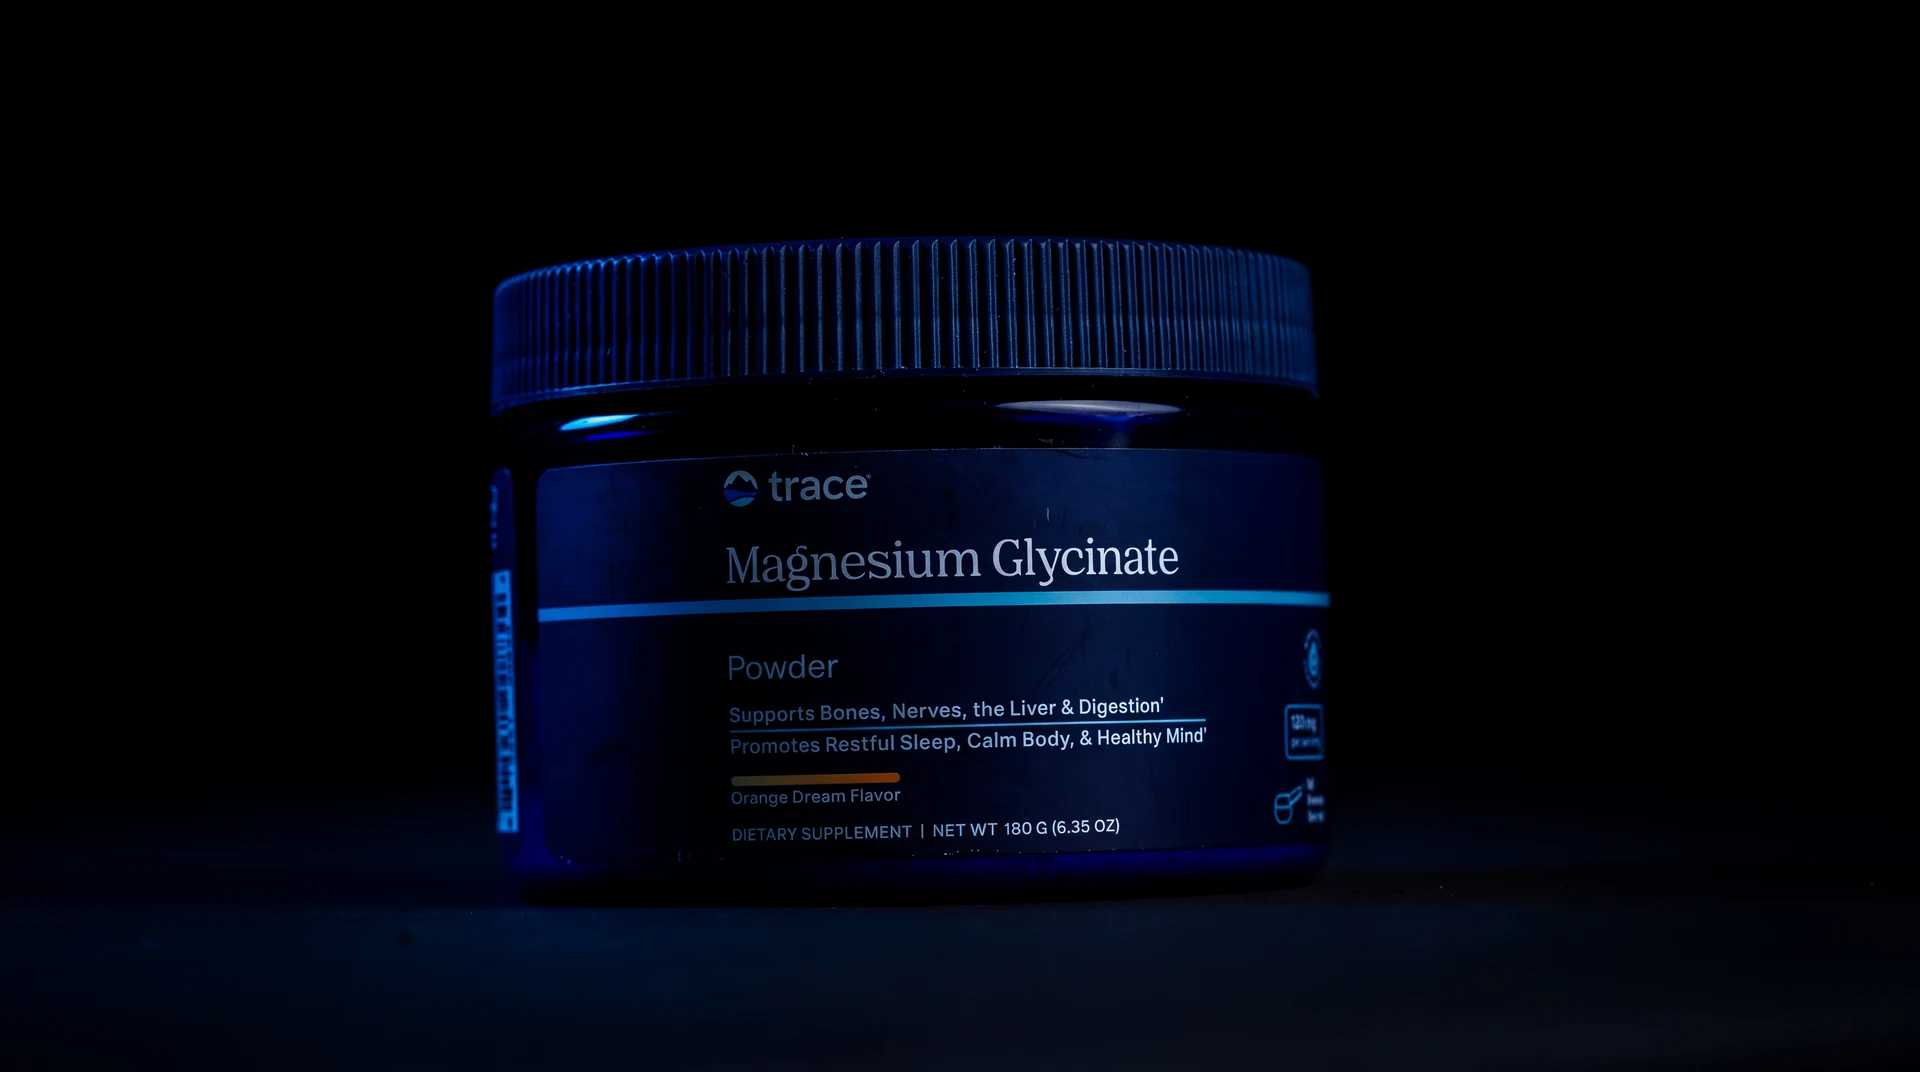
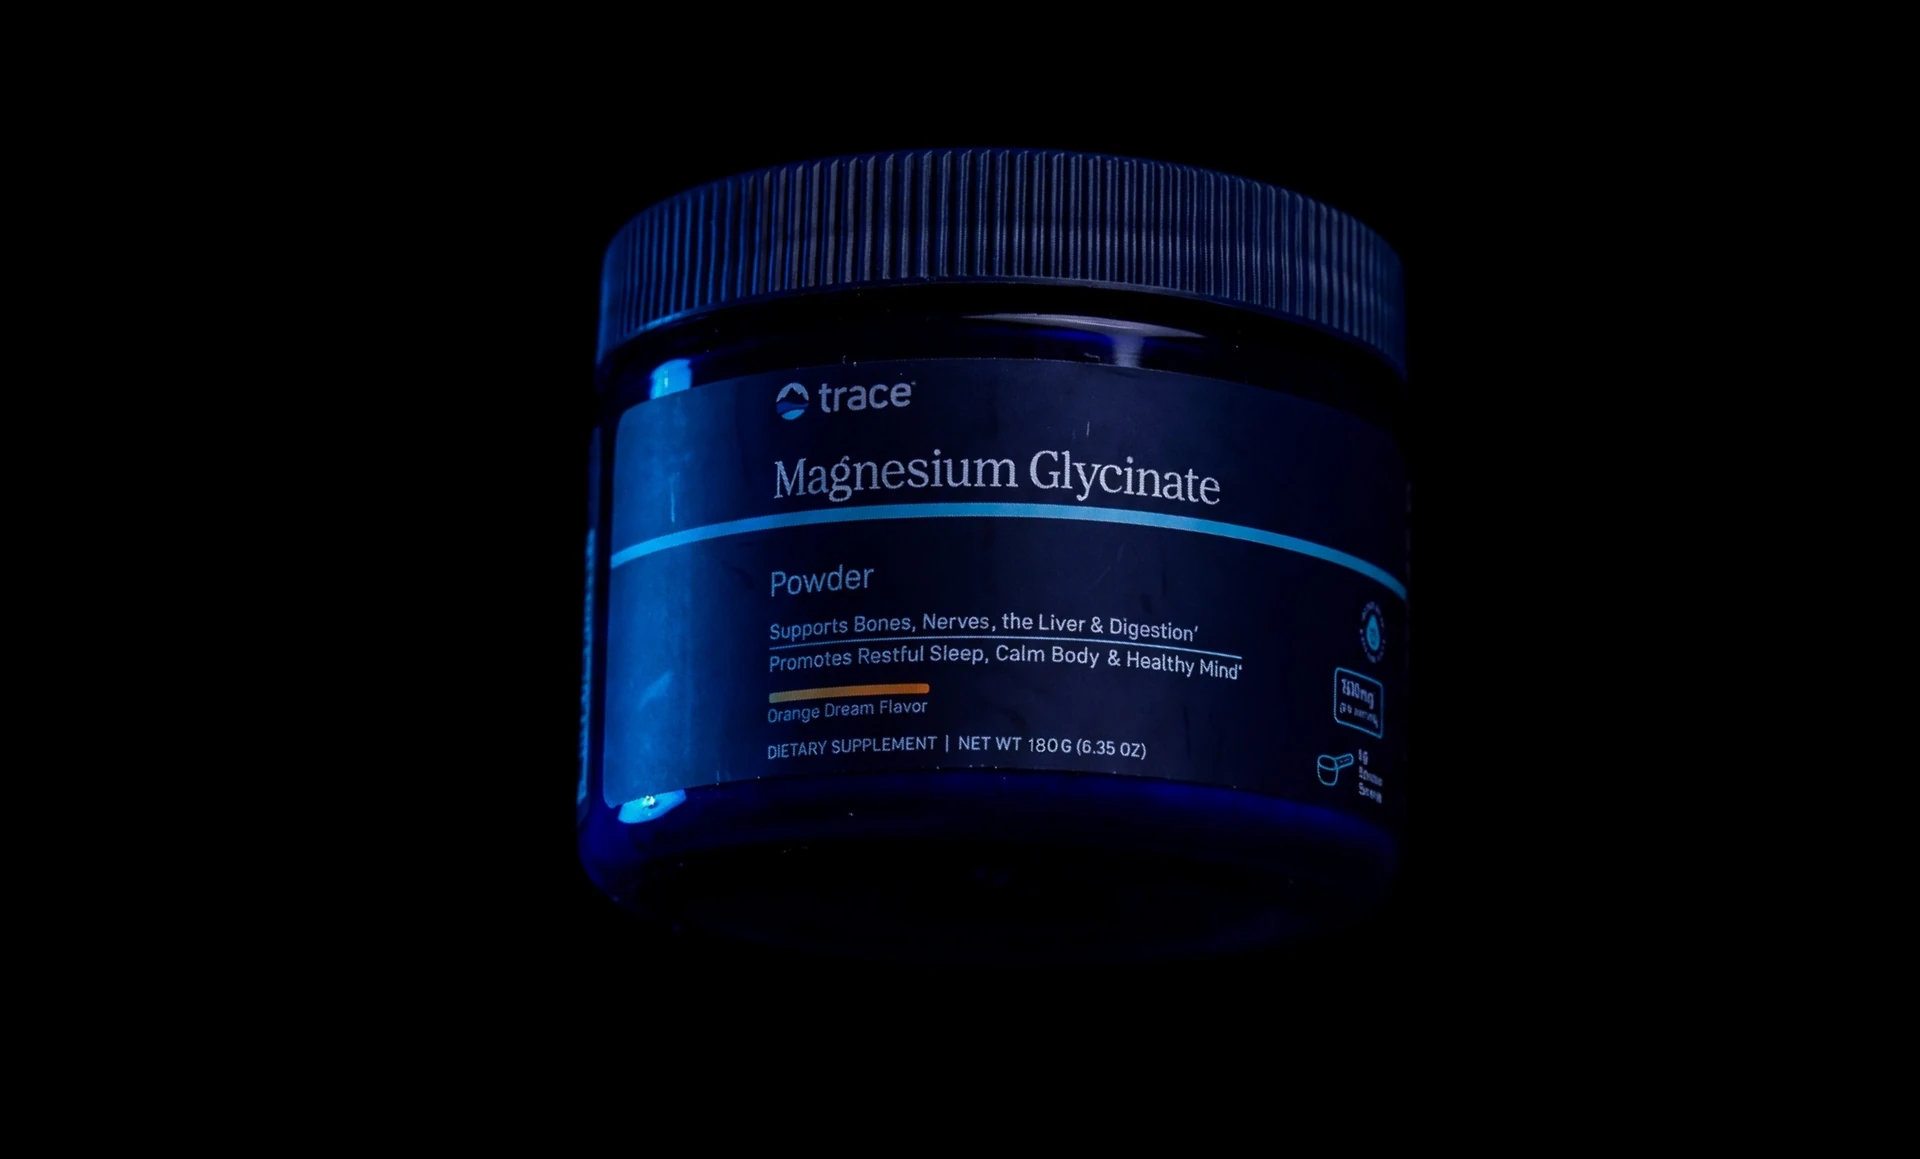
Add files via upload

Changed region(s): [[0.0312, 0.1231, 0.8125, 1.0], [0.8125, 0.9543, 0.8438, 0.9851]]

diff --git a/src/main.tsx b/src/main.tsx
@@ -1,5 +1,5 @@
 import React, { useEffect, useState } from 'react';
-import { useForm } from '@formspree/react';
+import { ValidationError, useForm } from '@formspree/react';
 import { createRoot } from 'react-dom/client';
 import { capabilities, projects } from './projectData';
 import type { PortfolioImage, Project } from './projectData';
@@ -10,21 +10,12 @@ function Orbit({ className = '' }: { className?: string }) { return <svg classNa
 function Header({ contactHref }: { contactHref: string }) { const [open, setOpen] = useState(false); return <header className="header"><a className="wordmark" href="/" aria-label="Concrete Orbit home">concrete orbit</a><button className="menu-button" aria-expanded={open} aria-controls="navigation" onClick={() => setOpen(!open)}>{open ? 'Close −' : 'Menu +'}</button><nav id="navigation" className={open ? 'navigation open' : 'navigation'} aria-label="Main navigation"><a href="/#work" onClick={() => setOpen(false)}>Selected work</a><a href="/#studio" onClick={() => setOpen(false)}>The studio</a><a className="nav-cta" href={contactHref} onClick={() => setOpen(false)}>Start a project <span>↗</span></a></nav></header>; }
 function ImageFrame({ image, tone = 'hero-tone', label, priority = false }: { image?: PortfolioImage | null; tone?: string; label: string; priority?: boolean }) { return image ? <img className="portfolio-image" src={image.src} srcSet={image.srcSet} sizes="(max-width: 700px) 100vw, 90vw" alt={image.alt} width={image.width} height={image.height} loading={priority ? 'eager' : 'lazy'} decoding="async"/> : <div className={`image-placeholder ${tone}`} role="img" aria-label={`${label}, image to be supplied`}><span className="frame-corner top-left"/><span className="frame-corner bottom-right"/><span className="placeholder-cross">+</span><div className="placeholder-caption"><span>IMAGE PLACEHOLDER</span></div></div>; }
 function Work() {
-  const [showHero, setShowHero] = useState(false);
-
-  useEffect(() => {
-    if (window.matchMedia('(prefers-reduced-motion: reduce)').matches) return;
-    const interval = window.setInterval(() => setShowHero(current => !current), 30000);
-    return () => window.clearInterval(interval);
-  }, []);
-
   return <section id="work" className="work section-pad curated-work">
     <div className="section-heading"><div><span className="lab-index">01 / SELECTED WORK</span><h2>Selected product<br/>campaigns.</h2></div><p className="section-note">HERO / DETAIL / COPY SPACE<br/>WASHINGTON, DC · WORLDWIDE</p></div>
     <div className="curated-grid">{selectedWork.map((selection, i) => (
       <a className={`curated-card curated-card-${i + 1} curated-${selection.size}`} href={`/work/${selection.slug}`} key={selection.slug}>
-        <div className={`curated-image rotating-work-image${showHero ? ' show-alternate' : ''}`}>
-          <img className="portfolio-image rotating-primary" src={selection.image.src} srcSet={selection.image.srcSet} sizes={selection.size === 'large' ? '90vw' : selection.size === 'medium' ? '(max-width: 700px) 85vw, 60vw' : '(max-width: 700px) 72vw, 30vw'} width={selection.image.width} height={selection.image.height} alt={selection.image.alt} loading="lazy" decoding="async"/>
-          {selection.alternateImage && <img className="portfolio-image rotating-alternate" src={selection.alternateImage.src} srcSet={selection.alternateImage.srcSet} sizes="90vw" width={selection.alternateImage.width} height={selection.alternateImage.height} alt="" aria-hidden="true" loading="lazy" decoding="async"/>}
+        <div className="curated-image">
+          <img className="portfolio-image" src={selection.image.src} srcSet={selection.image.srcSet} sizes={selection.size === 'large' ? '90vw' : selection.size === 'medium' ? '(max-width: 700px) 85vw, 60vw' : '(max-width: 700px) 72vw, 30vw'} width={selection.image.width} height={selection.image.height} alt={selection.image.alt} loading="lazy" decoding="async"/>
         </div>
         <div className="curated-caption"><span className="project-number">{String(i + 1).padStart(2, '0')}</span><div><h3>{selection.title}</h3><p>{selection.subtitle}</p></div><span aria-hidden="true">↗</span></div>
       </a>
@@ -56,7 +47,7 @@ function Studio() {
 
 function CampaignOfferSummary({ project }: { project: Project }) { return <div className="campaign-offer"><span className="eyebrow">COMMISSION A CAMPAIGN</span><h3>A campaign set for your product.</h3><p>You can commission a campaign with the same visual discipline for your own supplement, skincare or body care product.</p><div className="offer-summary-list"><div><span>01</span><p><strong>One product</strong> and one creative direction.</p></div><div><span>02</span><p><strong>Six master images:</strong> a lead hero, an alternate hero, slight and extreme macro views, plus copy space versions of both heroes.</p></div><div><span>03</span><p><strong>Adaptations:</strong> one wide website crop and agreed social crops made from selected finished images.</p></div></div><p className="offer-summary-note">Master images are the finished campaign photographs. Adaptations are crops made from selected masters. Advertising copy and graphic layouts can be scoped separately.</p><p className="campaign-reference">CAMPAIGN REFERENCE / {project.name}</p></div>; }
 
-function Contact({ project }: { project?: Project }) { const [state, handleSubmit] = useForm('xbgjzjge'); const succeeded = state.succeeded || Boolean(state.result); const campaignSlug = new URLSearchParams(window.location.search).get('campaign'); const referredProject = project ?? projects.find(item => item.slug === campaignSlug); return <section id="contact" className={`contact section-pad${project ? ' campaign-contact' : ''}`}><div className="contact-context"><div className="contact-heading"><h2>START A<br/>PROJECT <span>↗</span></h2><p>Share the product, where the images will be used and when you need them. If you are still shaping the brief, I can help work out the right image set.</p></div>{project && <CampaignOfferSummary project={project}/>}</div><form onSubmit={handleSubmit} encType="multipart/form-data">{referredProject && <input key={referredProject.slug} type="hidden" name="Campaign reference" defaultValue={referredProject.name}/>}<div className="form-row"><label>Name <span>*</span><input name="Name" autoComplete="name" required placeholder="Your name"/></label><label>Company<input name="Company" autoComplete="organization" placeholder="Brand or agency"/></label></div><label>Email <span>*</span><input name="Email" type="email" autoComplete="email" required placeholder="you@company.com"/></label><label>What are you looking to create? <span>*</span><textarea name="Project" required rows={3} placeholder="Tell me about the product, where the images will be used and what you already know…"/></label><div className="form-row"><label>When do you need it?<input name="Timeline" placeholder="Launch date or ideal timeline"/></label><label>Estimated budget<select name="Budget" defaultValue=""><option value="" disabled>Select a range</option><option>Under $5,000</option><option>$5,000 to $10,000</option><option>$10,000 to $25,000</option><option>$25,000 to $50,000</option><option>$50,000+</option><option>Let’s discuss</option></select></label></div><label className="upload-label">Reference / upload<input type="file" name="reference" accept="image/*,.pdf"/><small>Optional. Add an image or PDF if it helps explain the project.</small></label><p className="estimate-note">NEXT: RECOMMENDED SCOPE · ESTIMATE · PRODUCTION PLAN</p><button className="submit" type="submit" disabled={state.submitting}>{state.submitting ? 'SENDING…' : 'REQUEST AN ESTIMATE'} <span>→</span></button>{succeeded && <p className="form-status" role="status">Thanks, your note is in. I’ll review the details and be in touch soon.</p>}{state.errors && !succeeded && <p className="form-status" role="alert">Something went wrong. Please try again.</p>}<p className="contact-email">Prefer email? <a href="mailto:hello@concreteorbit.com">hello@concreteorbit.com</a></p><p className="privacy-note">When you submit this form, Concrete Orbit uses the information and files you provide to evaluate and respond to your inquiry, prepare an estimate and maintain related business records. Submissions are processed by Formspree. Concrete Orbit does not sell inquiry information. To request access, correction or deletion, email <a href="mailto:hello@concreteorbit.com">hello@concreteorbit.com</a>.</p></form></section>; }
+function Contact({ project }: { project?: Project }) { const [state, handleSubmit] = useForm('xbgjzjge'); const succeeded = state.succeeded || Boolean(state.result); const campaignSlug = new URLSearchParams(window.location.search).get('campaign'); const referredProject = project ?? projects.find(item => item.slug === campaignSlug); return <section id="contact" className={`contact section-pad${project ? ' campaign-contact' : ''}`}><div className="contact-context"><div className="contact-heading"><h2>START A<br/>PROJECT <span>↗</span></h2><p>Share the product, where the images will be used and when you need them. If you are still shaping the brief, I can help work out the right image set.</p></div>{project && <CampaignOfferSummary project={project}/>}</div><form action="https://formspree.io/f/xbgjzjge" method="POST" onSubmit={handleSubmit}>{referredProject && <input key={referredProject.slug} type="hidden" name="Campaign reference" defaultValue={referredProject.name}/>}<div className="form-row"><label>Name <span>*</span><input name="name" autoComplete="name" required placeholder="Your name"/></label><label>Company<input name="company" autoComplete="organization" placeholder="Brand or agency"/></label></div><label>Email <span>*</span><input name="email" type="email" autoComplete="email" required placeholder="you@company.com"/></label><ValidationError prefix="Email" field="email" errors={state.errors} className="form-status"/><label>What are you looking to create? <span>*</span><textarea name="message" required rows={3} placeholder="Tell me about the product, where the images will be used and what you already know…"/></label><ValidationError prefix="Project" field="message" errors={state.errors} className="form-status"/><div className="form-row"><label>When do you need it?<input name="timeline" placeholder="Launch date or ideal timeline"/></label><label>Estimated budget<select name="budget" defaultValue=""><option value="" disabled>Select a range</option><option>Under $5,000</option><option>$5,000 to $10,000</option><option>$10,000 to $25,000</option><option>$25,000 to $50,000</option><option>$50,000+</option><option>Let’s discuss</option></select></label></div><p className="estimate-note">NEXT: RECOMMENDED SCOPE · ESTIMATE · PRODUCTION PLAN</p><button className="submit" type="submit" disabled={state.submitting}>{state.submitting ? 'SENDING…' : 'REQUEST AN ESTIMATE'} <span>→</span></button>{succeeded && <p className="form-status" role="status">Thanks, your note is in. I’ll review the details and be in touch soon.</p>}{!succeeded && <ValidationError errors={state.errors} className="form-status"/>}<p className="contact-email">Prefer email? <a href="mailto:hello@concreteorbit.com">hello@concreteorbit.com</a></p><p className="privacy-note">When you submit this form, Concrete Orbit uses the information you provide to evaluate and respond to your inquiry, prepare an estimate and maintain related business records. Submissions are processed by Formspree. Concrete Orbit does not sell inquiry information. To request access, correction or deletion, email <a href="mailto:hello@concreteorbit.com">hello@concreteorbit.com</a>.</p></form></section>; }
 
 function Footer() { return <footer className="section-pad"><div className="footer-top"><a className="wordmark" href="/">concrete orbit</a><p>Based in Washington, DC.<br/>Working worldwide.</p><a href="#top">Back to top ↑</a></div><div className="footer-bottom"><span>© {new Date().getFullYear()} Concrete Orbit</span><a href="https://www.instagram.com/concreteorbitvisuals/" target="_blank" rel="noopener noreferrer" aria-label="Concrete Orbit on Instagram (opens in a new tab)" style={{display: 'inline-flex', alignItems: 'center', justifyContent: 'center', width: 24, height: 24}}><svg width="18" height="18" viewBox="0 0 24 24" fill="none" stroke="currentColor" strokeWidth="1.5" aria-hidden="true" focusable="false"><rect x="3" y="3" width="18" height="18" rx="5"/><circle cx="12" cy="12" r="4"/><circle cx="17.5" cy="6.5" r="1" fill="currentColor" stroke="none"/></svg></a></div></footer>; }
 

diff --git a/src/styles.css b/src/styles.css
@@ -343,18 +343,9 @@ footer{background:var(--lab-panel);border-top:1px solid var(--lab-line)}
 @media(max-width:600px){.founder-label{flex-direction:column;align-items:flex-start;width:100%}}
 @media(prefers-reduced-motion:reduce){html{scroll-behavior:auto}.curated-image .portfolio-image{transition:none}}
 
-/* Selected work alternates between the extreme and slight macro every 30 seconds. */
-.rotating-work-image .portfolio-image{position:absolute;inset:0;transition:opacity 1.2s ease,transform .8s cubic-bezier(.2,.7,.2,1),filter .5s}
-.rotating-work-image .rotating-primary{opacity:1}
-.rotating-work-image .rotating-alternate{opacity:0}
-.rotating-work-image.show-alternate .rotating-primary{opacity:0}
-.rotating-work-image.show-alternate .rotating-alternate{opacity:1}
-
 /* Each homepage campaign occupies at least 80% of the viewport. */
 .curated-work .curated-image{height:clamp(680px,84svh,1160px);min-height:80svh}
-.curated-work .rotating-work-image .rotating-primary{object-fit:cover}
-.curated-work .rotating-work-image .rotating-alternate{object-fit:cover;background:#000}
-.curated-work .curated-card:hover .rotating-alternate{transform:none}
+.curated-work .curated-image .portfolio-image{object-fit:cover}
 @media(max-width:800px){.curated-work .curated-image{height:80svh;min-height:560px;aspect-ratio:auto}}
 
 /* Desktop homepage hero: crop the surrounding black space while keeping the full Trace bottle visible. */
@@ -521,6 +512,7 @@ footer{background:var(--lab-panel);border-top:1px solid var(--lab-line)}
 .website-concept-trace-magnesium-glycinate.website-concept-banner-slide-1 .concept-copy{top:50%;width:30%;transform:translateY(-50%);text-shadow:0 2px 18px rgba(0,0,0,.84)}
 .advertisement-concept-trace .advertisement-copy{left:auto;right:6%;width:31%}
 .advertisement-concept-trace-magnesium-glycinate>img{object-position:66% center;transform:scale(1.1);transform-origin:68% center}
+.advertisement-concept-trace-magnesium-glycinate .advertisement-copy{left:auto;right:6%;width:31%;text-align:right}
 
 @media(max-width:800px){
   #contact{scroll-margin-top:84px}
@@ -542,6 +534,7 @@ footer{background:var(--lab-panel);border-top:1px solid var(--lab-line)}
   .mock-button{margin-top:13px}
   .advertisement-copy p{display:none}
   .advertisement-concept-trace-magnesium-glycinate>img{object-fit:contain;object-position:right bottom;transform:translateX(16%) scale(1.25);transform-origin:right bottom}
+  .advertisement-concept-trace-magnesium-glycinate .advertisement-copy{left:auto;right:7%;top:9%;width:68%;text-align:right}
 }
 
 @media(max-width:600px){

diff --git a/src/projectData.ts b/src/projectData.ts
@@ -46,11 +46,12 @@ export const projects: Project[] = [
     approach: 'Angled heroes, close label details and copy-space compositions complete the set.',
     services: ['Creative Direction', 'Photography', 'Compositing', 'Image Finishing'],
     deliverables: 'Angled hero · Macro details · Copy-space layouts',
-    cover: { src: '/images/projects/trace-magnesium-glycinate-tilt-hero-1920.webp', alt: 'Trace Magnesium Glycinate floating at an angle against black.', width: 5504, height: 3072 },
+    cover: { src: '/images/projects/trace-magnesium-glycinate-straight-hero-1920.webp', alt: 'Trace Magnesium Glycinate upright against black in cool blue light.', width: 1920, height: 1159 },
     gallery: [
       { src: '/images/projects/trace-magnesium-glycinate-extreme-macro-1920.webp', alt: 'Extreme close-up of the Trace Magnesium Glycinate lettering, label and lid.', width: 5504, height: 3072 },
       { src: '/images/projects/trace-magnesium-glycinate-slight-macro-1920.webp', alt: 'Close-up of the Trace Magnesium Glycinate label.', width: 5504, height: 3072 },
-      { src: '/images/projects/trace-magnesium-glycinate-straight-space-1920.webp', alt: 'Trace Magnesium Glycinate upright with black copy space.', width: 8446, height: 5466 },
+      { src: '/images/projects/trace-magnesium-glycinate-tilt-hero-1920.webp', alt: 'Trace Magnesium Glycinate floating at an angle against black.', width: 5504, height: 3072 },
+      { src: '/images/projects/trace-magnesium-glycinate-straight-space-1920.webp', alt: 'Trace Magnesium Glycinate upright with generous black copy space.', width: 1920, height: 805 },
       { src: '/images/projects/trace-magnesium-glycinate-tilt-space-1920.webp', alt: 'Trace Magnesium Glycinate angled against black negative space.', width: 7517, height: 3506 },
     ],
   },

diff --git a/src/selectedWork.ts b/src/selectedWork.ts
@@ -8,8 +8,7 @@ type HomepageSelection = {
   alt: string;
 };
 
-// Homepage order is intentional. Each project begins on its extreme macro
-// and changes to its slight macro after 30 seconds.
+// Homepage order is intentional. Each project displays its extreme macro.
 const homepageSelections: HomepageSelection[] = [
   { slug: 'acure-shampoo', title: 'ACURE', subtitle: 'Daily Workout Shampoo', size: 'large', alt: 'Extreme macro of the ACURE shampoo tube covered in water droplets.' },
   { slug: 'trace-magnesium-glycinate', title: 'TRACE', subtitle: 'Magnesium Glycinate', size: 'large', alt: 'Extreme macro of Trace Magnesium Glycinate lettering, blue label texture and ribbed lid.' },
@@ -24,6 +23,5 @@ export const selectedWork = homepageSelections.map(selection => {
     ...selection,
     project,
     image: { ...project.gallery[0], alt: selection.alt } as PortfolioImage,
-    alternateImage: project.gallery[1],
   };
 });
